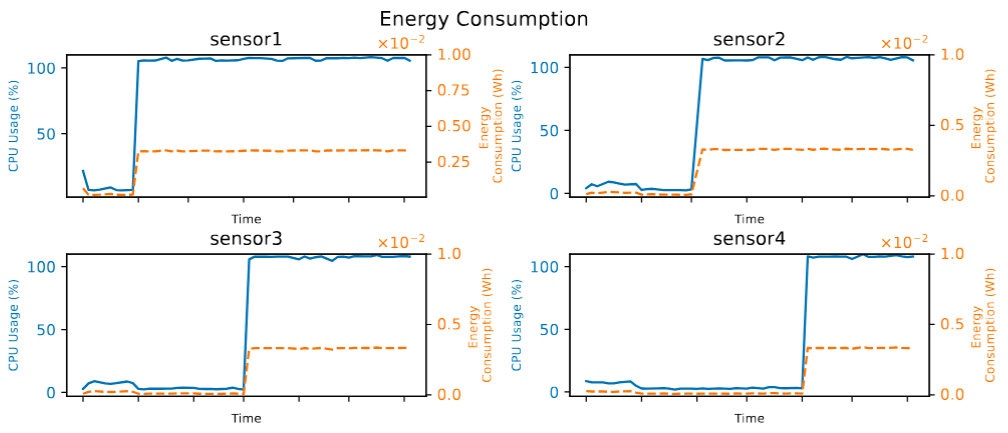
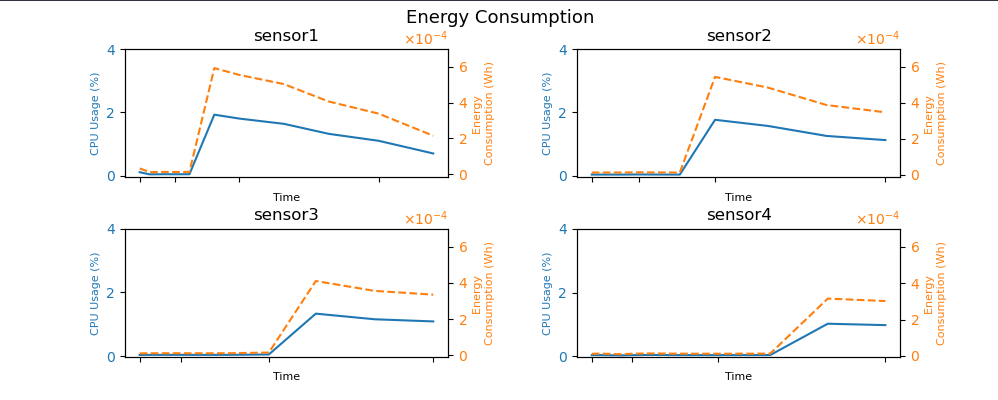
code improvements

diff --git a/topology.py b/topology.py
@@ -5,158 +5,119 @@
 @email: ramon.fontes@ufrn.br
 """
 
-# Import necessary modules
 import os
 import sys
 import subprocess
 from time import sleep
 
-# Import Containernet and Mininet-WiFi modules
-from containernet.net import Containernet # Containernet allows running containers as Mininet nodes
-from containernet.node import DockerSensor # Docker-based sensor nodes for IoT simulations
-from containernet.cli import CLI # Command-line interface for Mininet
-from mininet.log import info, setLogLevel # Logging utilities
-from mn_wifi.sixLoWPAN.link import LoWPAN # LoWPAN (IPv6 over Low-Power Wireless) link model
-from mininet.term import makeTerm # Opens terminal windows for debugging
+from containernet.net import Containernet
+from containernet.node import DockerSensor
+from containernet.cli import CLI
+from containernet.energy import Energy as DockerEnergy
 
-# Import energy measurement modules based on command-line arguments
-if '-b' in sys.argv:
-    from mn_wifi.energy import Energy   # Energy module for Mininet-WiFi
-if '-a' in sys.argv:
-    from containernet.energy import Energy   # Energy module for Containernet
+from mininet.log import info, setLogLevel
+from mininet.term import makeTerm
+from mn_wifi.energy import Energy as WifiEnergy
+from mn_wifi.sixLoWPAN.link import LoWPAN
 
-# Function to copy files from a running Docker container
+
 def docker_cp(source_path, destination_path):
+    """
+    Copy files from a Docker container to a local path.
+    """
     try:
-        command = ["docker", "cp", f"{source_path}", f"{destination_path}"]
-
+        command = ["docker", "cp", source_path, destination_path]
         subprocess.run(command, check=True)
-        print(f"Arquivo(s) copiado(s) com sucesso: {source_path} -> {destination_path}")
-
+        print(f"File(s) copied: {source_path} -> {destination_path}")
     except subprocess.CalledProcessError as e:
-        print(f"Erro ao executar o comando docker cp: {e}")
+        print(f"Error when running docker cp command: {e}")
 
-# Function to define and configure the network topology
+
+def create_sensors(net, dimage):
+    """
+    Create and return a list of configured sensors.
+    """
+    sensors = []
+    for i in range(1, 11):
+        storing_mode = 2 if i in [1, 6] else 1
+        is_root = i == 1
+        sensor = net.addSensor(
+            f'sensor{i}', ip6=f'fe80::{i}/64', panid='0xbeef',
+            dodag_root=is_root, storing_mode=storing_mode, voltage=3.7,
+            cls=DockerSensor, dimage=dimage, cpu_shares=10,
+            volumes=["/tmp/.X11-unix:/tmp/.X11-unix:rw"],
+            environment={"DISPLAY": ":0"}, privileged=True
+        )
+        sensors.append(sensor)
+    return sensors
+
+
+def create_links(net, sensors):
+    """
+    Create LoWPAN links between sensors based on a predefined topology.
+    """
+    links = [
+        (0, 1), (0, 2), (0, 5), (1, 6),
+        (5, 7), (5, 8), (2, 3), (3, 4), (4, 9)
+    ]
+    for a, b in links:
+        net.addLink(sensors[a], sensors[b], cls=LoWPAN)
+
+
 def topology():
-    # Create a Containernet network with an IoT module for 6LoWPAN
-    net = Containernet(iot_module='mac802154_hwsim', ipBase='192.168.210.0/24')
-
-    # Docker image containing the required software for the sensors
+    """
+    Define and configure the IoT network topology using Containernet.
+    """
+    net = Containernet(ipBase='192.168.210.0/24')
     dimage = 'ramonfontes/bmv2:lowpan-storing'
 
-    # Adding IoT sensor nodes with different configurations
     info('*** Adding Nodes...\n')
-    sensor1 = net.addSensor('sensor1', ip6='fe80::1/64', panid='0xbeef',
-                            dodag_root=True, storing_mode=2, voltage=3.7,
-                            cls=DockerSensor, dimage=dimage, cpu_shares=10,
-                            volumes=["/tmp/.X11-unix:/tmp/.X11-unix:rw"],
-                            environment={"DISPLAY": ":0"}, privileged=True)
-    sensor2 = net.addSensor('sensor2', ip6='fe80::2/64', panid='0xbeef', voltage=3.7,
-                            storing_mode=1, cls=DockerSensor, dimage=dimage, cpu_shares=10,
-                            volumes=["/tmp/.X11-unix:/tmp/.X11-unix:rw"],
-                            environment={"DISPLAY": ":0"}, privileged=True)
-    sensor3 = net.addSensor('sensor3', ip6='fe80::3/64', panid='0xbeef', voltage=3.7,
-                            storing_mode=1, cls=DockerSensor, dimage=dimage, cpu_shares=10,
-                            volumes=["/tmp/.X11-unix:/tmp/.X11-unix:rw"],
-                            environment={"DISPLAY": ":0"}, privileged=True)
-    sensor4 = net.addSensor('sensor4', ip6='fe80::4/64', panid='0xbeef', voltage=3.7,
-                            storing_mode=1, cls=DockerSensor, dimage=dimage, cpu_shares=10,
-                            volumes=["/tmp/.X11-unix:/tmp/.X11-unix:rw"],
-                            environment={"DISPLAY": ":0"}, privileged=True)
-    sensor5 = net.addSensor('sensor5', ip6='fe80::5/64', panid='0xbeef', voltage=3.7,
-                            storing_mode=1, cls=DockerSensor, dimage=dimage, cpu_shares=10,
-                            volumes=["/tmp/.X11-unix:/tmp/.X11-unix:rw"],
-                            environment={"DISPLAY": ":0"}, privileged=True)
-    sensor6 = net.addSensor('sensor6', ip6='fe80::6/64', panid='0xbeef', voltage=3.7,
-                            storing_mode=2, cls=DockerSensor, dimage=dimage, cpu_shares=10,
-                            volumes=["/tmp/.X11-unix:/tmp/.X11-unix:rw"],
-                            environment={"DISPLAY": ":0"}, privileged=True)
-    sensor7 = net.addSensor('sensor7', ip6='fe80::7/64', panid='0xbeef', voltage=3.7,
-                            storing_mode=1, cls=DockerSensor, dimage=dimage, cpu_shares=10,
-                            volumes=["/tmp/.X11-unix:/tmp/.X11-unix:rw"],
-                            environment={"DISPLAY": ":0"}, privileged=True)
-    sensor8 = net.addSensor('sensor8', ip6='fe80::8/64', panid='0xbeef', voltage=3.7,
-                            storing_mode=1, cls=DockerSensor, dimage=dimage, cpu_shares=10,
-                            volumes=["/tmp/.X11-unix:/tmp/.X11-unix:rw"],
-                            environment={"DISPLAY": ":0"}, privileged=True)
-    sensor9 = net.addSensor('sensor9', ip6='fe80::9/64', panid='0xbeef', voltage=3.7,
-                            storing_mode=1, cls=DockerSensor, dimage=dimage, cpu_shares=10,
-                            volumes=["/tmp/.X11-unix:/tmp/.X11-unix:rw"],
-                            environment={"DISPLAY": ":0"}, privileged=True)
-    sensor10 = net.addSensor('sensor10', ip6='fe80::10/64', panid='0xbeef', voltage=3.7,
-                            storing_mode=1, cls=DockerSensor, dimage=dimage, cpu_shares=10,
-                            volumes=["/tmp/.X11-unix:/tmp/.X11-unix:rw"],
-                            environment={"DISPLAY": ":0"}, privileged=True)
+    sensors = create_sensors(net, dimage)
 
-    # Configure WiFi/6LoWPAN nodes
     net.configureWifiNodes()
 
-    # Define the topology by linking sensor nodes using LoWPAN
     info('*** Creating links...\n')
-    net.addLink(sensor1, sensor2, cls=LoWPAN)
-    net.addLink(sensor1, sensor3, cls=LoWPAN)
-    net.addLink(sensor1, sensor6, cls=LoWPAN)
-    net.addLink(sensor2, sensor7, cls=LoWPAN)
-    net.addLink(sensor6, sensor8, cls=LoWPAN)
-    net.addLink(sensor6, sensor9, cls=LoWPAN)
-    net.addLink(sensor3, sensor4, cls=LoWPAN)
-    net.addLink(sensor4, sensor5, cls=LoWPAN)
-    net.addLink(sensor5, sensor10, cls=LoWPAN)
+    create_links(net, sensors)
 
     info('*** Starting network...\n')
-    net.build() # Build and initialize the network
+    net.build()
 
-    # If '-b' or '-a' argument is passed, enable energy measurement
-    if '-b' in sys.argv or '-a' in sys.argv:
-        info("*** Measuring energy consumption...\n")
-        Energy(net.sensors)
-
-    # If '-r' argument is passed, configure RPL (IPv6 Routing Protocol for LLNs)
+    if '-b' in sys.argv:
+        WifiEnergy(net.sensors)
+    if '-a' in sys.argv:
+        DockerEnergy(net.sensors)
     if '-r' in sys.argv:
         net.configRPLD(net.sensors)
 
-    # If '-b' argument is passed, open a terminal to ping sensor2 from sensor1
     if '-b' in sys.argv:
-        makeTerm(sensor1, title='ping', cmd="bash -c 'ping -c50 fe80::2%sensor1-pan0;'")
+        makeTerm(sensors[0], title='ping', cmd="bash -c 'ping -c50 fe80::2%sensor1-pan0;'")
 
-    # If '-a' argument is passed, simulate CPU stress on different sensors
     if '-a' in sys.argv:
-        makeTerm(sensor1, title='stress', cmd="bash -c 'sleep 10 && stress --cpu 1;'")
-        makeTerm(sensor2, title='stress', cmd="bash -c 'sleep 20 && stress --cpu 1;'")
-        makeTerm(sensor3, title='stress', cmd="bash -c 'sleep 30 && stress --cpu 1;'")
-        makeTerm(sensor4, title='stress', cmd="bash -c 'sleep 40 && stress --cpu 1;'")
+        for i, delay in enumerate([10, 20, 30, 40]):
+            makeTerm(sensors[i], title='stress', cmd=f"bash -c 'sleep {delay} && stress --cpu 1;'")
 
-    # If '-a' argument is passed, log energy consumption data from the sensors
-    if '-a' in sys.argv:
-        for t in range(0, 60): # Display a countdown for 60 seconds
+        for t in range(60):
             print(f"\r{t}", end="", flush=True)
             sleep(1)
 
-        # Retrieve consumption logs from sensors
         for n in range(1, 5):
             container = f"mn.sensor{n}"
-            source = f"{container}:/tmp/consumption-cpu"
-            destination = f"./{container[3:]}.log"
-            docker_cp(source, destination)
+            docker_cp(f"{container}:/tmp/consumption-cpu", f"./sensor{n}.log")
 
-    # If '-a' is not passed, start the interactive Mininet CLI
     if '-a' not in sys.argv:
         info('*** Running CLI...\n')
         CLI(net)
 
-    # Kill any lingering terminal processes
     os.system('pkill -9 -f xterm')
 
-    # If '-b' argument is passed, print energy consumption data for selected sensors
     if '-b' in sys.argv:
-        print("energy consumed by sensor1:", sensor1.wintfs[0].consumption, "Wh")
-        print("energy consumed by sensor2:", sensor2.wintfs[0].consumption, "Wh")
-        print("energy consumed by sensor7:", sensor7.wintfs[0].consumption, "Wh")
+        for i in [0, 1, 6]:  # sensor1, sensor2, sensor7
+            print(f"energy consumed by sensor{i+1}:", sensors[i].wintfs[0].consumption, "Wh")
 
     info('*** Stopping network...\n')
-    net.stop() # Stop the network
+    net.stop()
 
-# Entry point: Set logging level and start topology setup
+
 if __name__ == '__main__':
-    setLogLevel('info') # Set logging verbosity to 'info'
-    topology() # Run the topology setup
+    setLogLevel('info')
+    topology()

diff --git a/graph.py b/graph.py
@@ -1,70 +1,68 @@
+"""Script to plot CPU usage and energy consumption from .log files"""
+
 import re
 from datetime import datetime
+import glob
+
 import matplotlib.pyplot as plt
 from matplotlib.gridspec import GridSpec
 from matplotlib.ticker import ScalarFormatter
-import glob
 
 
 def extract_number(filename):
+    """Extracts the first number from a filename for sorting."""
     match = re.search(r'\d+', filename)
     return int(match.group()) if match else float('inf')
 
-# Função para ler dados de um arquivo e extrair as informações
+
 def read_data_from_file(file_path):
+    """Reads a .log file and returns timestamps, CPU usage, and energy consumption values."""
     timestamps = []
-    values1 = []  # Para armazenar os valores de uso da CPU
-    values2 = []  # Para armazenar os valores de consumo de energia
+    values1 = []  # To store CPU usage values
+    values2 = []  # To store energy consumption values
 
-    with open(file_path, 'r') as file:
+    with open(file_path, 'r', encoding='utf-8') as file:
         for line in file:
-            # Split de cada linha
             parts = line.split(',')
-
             if len(parts) == 3:
                 timestamp = parts[0].strip()
                 value1 = float(parts[1].strip())
                 value2 = float(parts[2].strip())
 
-                # Adicionando os valores diretamente
                 timestamps.append(datetime.strptime(timestamp, '%Y-%m-%d %H:%M:%S'))
-                values1.append(value1)  # Uso da CPU
-                values2.append(value2)  # Consumo de energia
+                values1.append(value1)
+                values2.append(value2)
 
     return timestamps, values1, values2
 
-# Caminho para os arquivos (exemplo: arquivos .log na pasta atual)
+
+# Path to .log files
 file_paths = sorted(glob.glob('*.log'), key=extract_number)
 
-# Configurando layout com GridSpec (linhas dinâmicas e 2 colunas)
+# Layout configuration using GridSpec
 num_files = len(file_paths)
-num_rows = (num_files + 1) // 2  # Determina o número de linhas necessárias
+num_rows = (num_files + 1) // 2
 fig = plt.figure(figsize=(10, 2 * num_rows))
 gs = GridSpec(num_rows, 2, figure=fig)
 fig.suptitle("Energy Consumption", fontsize=13)
 
-# Iterando sobre os arquivos e criando subplots
-for i, file_path in enumerate(file_paths):
-    timestamps, values1, values2 = read_data_from_file(file_path)
+# Generate subplots for each file
+for i, path in enumerate(file_paths):
+    ts, cpu_usage, energy = read_data_from_file(path)
 
-    # Gerando o label para cada arquivo
-    label_name = file_path.split('/')[-1]
-
-    # Subplot na posição adequada
-    row, col = divmod(i, 2)  # Calcula a posição na grade
+    label_name = path.split('/')[-1]
+    row, col = divmod(i, 2)
     ax = fig.add_subplot(gs[row, col])
 
-    # Plotando o uso da CPU e consumo de energia
-    ax.plot(timestamps, values1, linestyle='-', label='Uso da CPU', color='tab:blue')
+    ax.plot(ts, cpu_usage, linestyle='-', label='CPU Usage', color='tab:blue')
     ax2 = ax.twinx()
-    ax2.plot(timestamps, values2, linestyle='--', label='Consumo de Energia', color='tab:orange')
+    ax2.plot(ts, energy, linestyle='--', label='Energy Consumption', color='tab:orange')
 
-    # Configurando os eixos
     ax.set_title(f'{label_name[:-4]}', fontsize=12)
     ax.set_xlabel('Time', fontsize=8)
     ax.set_ylabel('CPU Usage (%)', color='tab:blue', fontsize=8)
     ax.tick_params(axis='y', labelcolor='tab:blue')
-    ax.set_ylim(top=20)
+    ax.set_ylim(top=5)
 
     ax2.set_ylabel('Energy \nConsumption (Wh)', color='tab:orange', fontsize=8)
     ax2.tick_params(axis='y', labelcolor='tab:orange')
@@ -72,15 +70,15 @@ for i, file_path in enumerate(file_paths):
     ax2.ticklabel_format(axis='y', style='sci', scilimits=(0, 0))
     ax2.set_ylim(top=0.0007)
 
-    # Formatando o eixo X para mostrar horas:minutos:segundos
-    ax.set_xticks(timestamps[::len(timestamps) // 3])  # Máximo de 6 rótulos
-    ax.set_xticklabels([ts.strftime('%H:%M:%S') for ts in timestamps[::len(timestamps) // 3]])
-    ax.set_xticklabels([])
-
-    # Adicionando legendas
-    #ax.legend(loc='upper left')
-    #ax2.legend(loc='upper right')
+    # Show up to 3 X-axis labels
+    if len(ts) >= 3:
+        xticks = ts[::len(ts) // 3]
+        ax.set_xticks(xticks)
+        ax.set_xticklabels([t.strftime('%H:%M:%S') for t in xticks], fontsize=6)
+    else:
+        ax.set_xticks(ts)
+        ax.set_xticklabels([t.strftime('%H:%M:%S') for t in ts], fontsize=6)
 
 fig.subplots_adjust(hspace=0.4, wspace=0.4)
 plt.show()
-#plt.savefig("cpu_load.eps")
+# plt.savefig("cpu_load.eps")

diff --git a/README.md b/README.md
@@ -34,7 +34,11 @@ The ribbons considered are "Artefatos Disponíveis (SeloD)", "Artefatos Funciona
 
 ## Dependencies
 
-The pre-configured VM comes with all necessary dependencies pre-installed.
+The pre-configured VM comes with all necessary dependencies pre-installed. However, if you wish to reproduce this study in a separate environment, please ensure the following requirements are met:
+
+- Ubuntu LTS 22.04+
+- Kernel 6.8+
+- Containernet - https://github.com/ramonfontes/containernet: this is a modified release of containernet that includes Mininet-WPAN.
 
 ## Security Concerns
 
